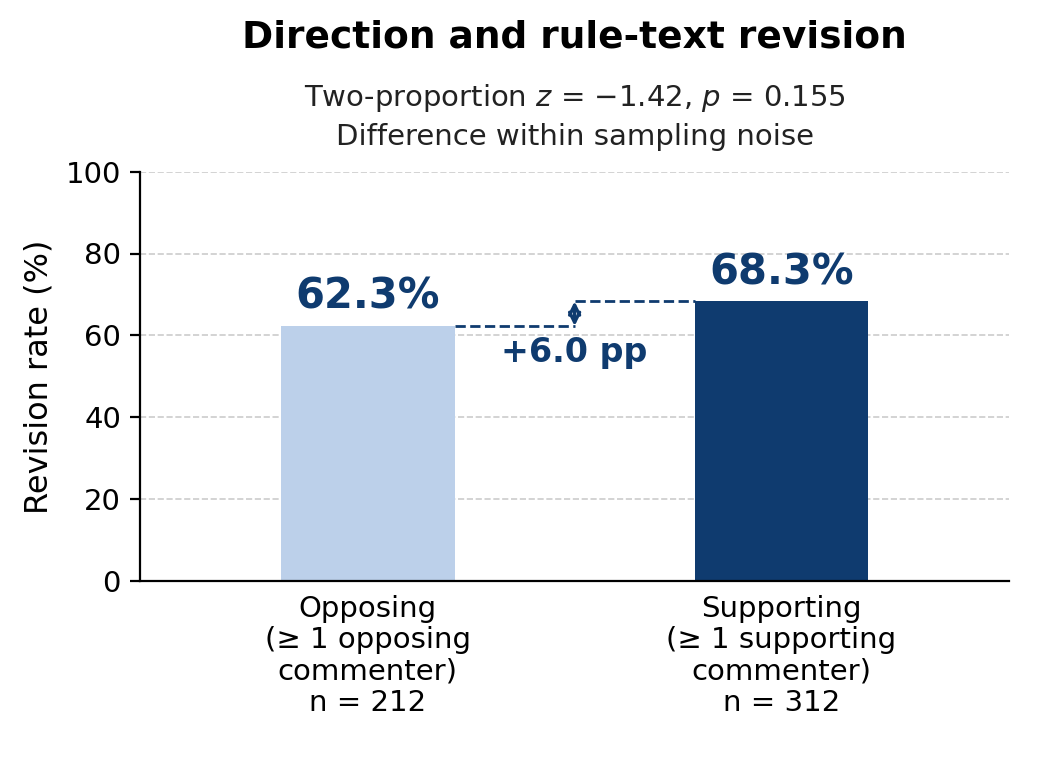
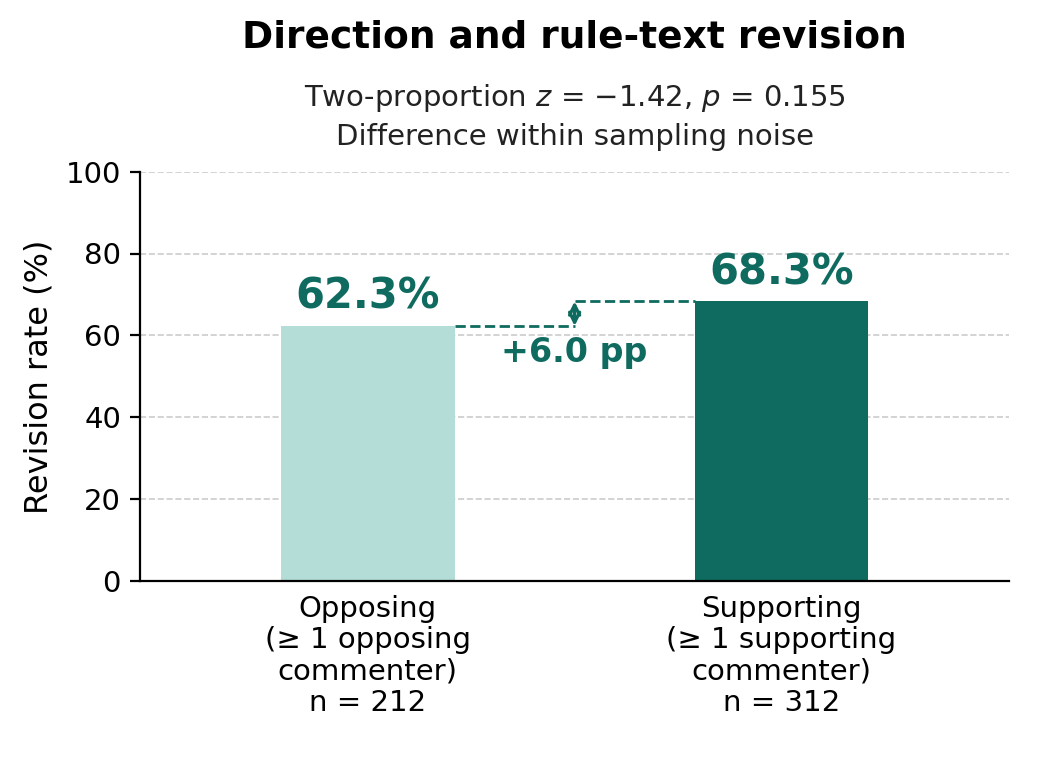
Final camera-ready figures and the scripts that make them

Changed region(s): [[0.4923, 0.3077, 0.8615, 0.7692], [0.2769, 0.3385, 0.4308, 0.4], [0.5538, 0.3692, 0.5846, 0.4]]

diff --git a/code/38_unified_figures.py b/code/38_unified_figures.py
@@ -1,0 +1,336 @@
+"""
+38_unified_figures.py - Figures 1, 3, 4, and 5 of the camera-ready paper in the
+same visual theme as Figures 2 and 6 (code/36, code/35).
+
+Theme: DejaVu Sans; navy #0f3b6f for the emphasized group, light blue #bcd0ea
+for the comparison group; bold navy value labels; dashed light-gray grid;
+bold chart titles with a one- or two-line statistical subtitle.
+
+  fig1_pipeline.png                 Figure 1: the auditing framework, showing
+                                    each measurement component's audit status
+                                    and which findings it feeds
+  fig2_f3_org_majority.png          Figure 3: audit-corrected Finding 3 composition
+  fig3_classifier_per_class.png     Figure 4: classifier vs. the human audit
+  figure_5_f3_audit_comparison.png  Figure 5: Finding 3 before and after the audit
+
+Numbers are the paper's. Figure 4 is computed from
+data/processed/outcome_audit_reconciled.csv and checked against the paper.
+
+Usage (repo root):
+    python3 code/38_unified_figures.py [output_dir]
+"""
+from __future__ import annotations
+
+import os
+import sys
+
+import matplotlib
+matplotlib.use("Agg")
+import matplotlib.pyplot as plt
+from matplotlib.colors import LinearSegmentedColormap
+from matplotlib.patches import FancyArrowPatch, FancyBboxPatch, Patch
+from matplotlib.lines import Line2D
+
+OUT = sys.argv[1] if len(sys.argv) > 1 else "paper/camera_ready_figures"
+DPI = 200
+LIGHT, DARK = "#bcd0ea", "#0f3b6f"
+# One muted colour family per finding, plus one for the human audits. The light/dark
+# pair inside each family keeps every chart readable in greyscale and for colour-blind readers.
+F1_DARK, F1_LIGHT = DARK, LIGHT                 # Finding 1: engagement (blue)
+F2_DARK, F2_LIGHT = "#0f6b5f", "#b3ddd6"        # Finding 2: direction (teal)
+F3_DARK, F3_LIGHT = "#b5541c", "#f2c9a5"        # Finding 3: commenter type (amber)
+AU_DARK, AU_LIGHT = "#4a3a8c", "#cdc6e8"        # blind human audits (purple)
+TEXT, MUTED, ARROW = "#222222", "#6b7686", "#7a8594"
+PANEL, GRID = "#f4f6f9", "#cccccc"
+SE, MO = "SURVIVED-edited", "MODIFIED"
+
+plt.rcParams.update({"font.family": "DejaVu Sans"})
+
+
+def style_axes(ax) -> None:
+    ax.yaxis.grid(True, ls="--", lw=0.6, color=GRID, zorder=0)
+    ax.set_axisbelow(True)
+    for side in ("top", "right"):
+        ax.spines[side].set_visible(False)
+
+
+# ---------------------------------------------------------------- Figure 1
+W1, H1 = 11.0, 5.3          # inches; printed at full text width
+EDGE = "#8a94a6"
+
+
+def figure_1(path: str) -> None:
+    fig = plt.figure(figsize=(W1, H1), dpi=DPI)
+    ax = fig.add_axes([0, 0, 1, 1])
+    ax.set_xlim(0, 1)
+    ax.set_ylim(0, 1)
+    ax.axis("off")
+    fy = lambda inches: inches / H1          # noqa: E731  vertical inches -> fraction
+    dash = {"proxy": (0, (5, 3)), "descriptive": (0, (1.2, 2.2))}
+
+    def pill(cx, cy, label, kind):
+        w = (len(label) * 0.068 + 0.26) / W1
+        ax.add_patch(FancyBboxPatch((cx - w / 2, cy - fy(0.1)), w, fy(0.2),
+                                    boxstyle="round,pad=0,rounding_size=0.015",
+                                    fc=AU_DARK if kind == "audited" else "white",
+                                    ec=AU_DARK if kind == "audited" else EDGE,
+                                    lw=1.0, ls=dash.get(kind, "solid"), zorder=3))
+        ax.text(cx, cy, label, ha="center", va="center", fontsize=8.4, fontweight="bold",
+                color="white" if kind == "audited" else "#4b5563", zorder=4)
+
+    def box(x0, y0, x1, y1, title, lines, kind, badge=None, fill=DARK):
+        face = {"input": PANEL, "audited": "#f3f1fa", "proxy": "white",
+                "descriptive": "white", "finding": fill}[kind]
+        edge = {"input": "#d5dbe3", "audited": AU_DARK, "finding": fill}.get(kind, EDGE)
+        ax.add_patch(FancyBboxPatch((x0, y0), x1 - x0, y1 - y0,
+                                    boxstyle="round,pad=0,rounding_size=0.012", fc=face, ec=edge,
+                                    lw=1.6 if kind in ("audited", "finding") else 1.2,
+                                    ls=dash.get(kind, "solid"), zorder=2))
+        cx = (x0 + x1) / 2
+        y = y1 - fy(0.15)
+        if not badge:   # centre the text block vertically when there is no badge
+            block = fy(0.19) + fy(0.27) - fy(0.19) + fy(0.18) * len(lines)
+            y = (y0 + y1) / 2 + block / 2
+        ax.text(cx, y, title, ha="center", va="top", fontsize=11, fontweight="bold",
+                color="white" if kind == "finding" else "#1f2a37", zorder=3)
+        y -= fy(0.27)
+        for ln in lines:
+            ax.text(cx, y, ln, ha="center", va="top", fontsize=9.3,
+                    color="white" if kind == "finding" else TEXT, zorder=3)
+            y -= fy(0.18)
+        if badge:
+            pill(cx, y0 + fy(0.2), badge, kind)
+
+    def arrow(points):
+        if len(points) > 2:
+            xs, ys = zip(*points[:-1])
+            ax.plot(xs, ys, color=ARROW, lw=1.3, zorder=1, solid_capstyle="butt")
+        ax.add_patch(FancyArrowPatch(points[-2], points[-1], arrowstyle="-|>",
+                                     mutation_scale=11, color=ARROW, lw=1.3, zorder=1,
+                                     shrinkA=0, shrinkB=0))
+
+    S0, S1 = 0.012, 0.150          # sample
+    I0, I1 = 0.182, 0.345          # inputs
+    M0, M1 = 0.378, 0.735          # measurement
+    Ma1, Mb0 = 0.551, 0.562        # measurement sub-columns
+    F0, F1 = 0.782, 0.988          # findings
+    BUS = 0.759
+    R1 = (0.675, 0.910)
+    R2 = (0.385, 0.620)
+    R3 = (0.095, 0.330)
+
+    for x, label in (((S0 + S1) / 2, "SAMPLE"), ((I0 + I1) / 2, "DATA"),
+                     ((M0 + M1) / 2, "MEASUREMENT"), ((F0 + F1) / 2, "FINDINGS")):
+        ax.text(x, 0.958, label, ha="center", va="center", fontsize=9,
+                fontweight="bold", color=MUTED)
+
+    box(S0, *R1[:1], S1, R1[1], "EPA dockets", ["2010–2022", "6,145 dockets", "786,197 comments"], "input")
+    box(S0, R2[0], S1, R2[1], "36 anchors", ["stratified random", "+ extreme-case"], "input")
+    box(I0, R1[0], I1, R1[1], "Federal Register", ["proposed + final rules", "72 documents"], "input")
+    box(I0, R2[0], I1, R2[1], "Public comments", ["70,075 analyzable", "incl. 1,634 attachments"], "input")
+    box(I0, R3[0], I1, R3[1], "Rhetoric schema", ["23 indicators, GPT-5", "not used for findings"], "descriptive", "Descriptive only")
+
+    box(M0, R1[0], M1, R1[1], "Obligation extraction",
+        ["deontic parser + GPT-5 verifier", "12,730 obligations · precision 0.95"],
+        "audited", "Audited · n = 66")
+    box(M0, R2[0], Ma1, R2[1], "Comment matching",
+        ["GPT-5 judge", "matcher–human κ = 0.82"], "audited", "Audited · n = 100")
+    box(Mb0, R2[0], M1, R2[1], "Outcome states",
+        ["proposed → final", "F3 uses corrected labels"], "audited", "Audited · n = 150")
+    box(M0, R3[0], Ma1, R3[1], "Commenter type",
+        ["Title-field patterns", "org. vs individual"], "proxy", "Proxy · not audited")
+
+    box(F0, R1[0], F1, R1[1], "Finding 1", ["Engagement tracks revision", "across rulemakings"], "finding", fill=F1_DARK)
+    box(F0, R2[0], F1, R2[1], "Finding 2", ["Direction does not", "differentiate outcomes"], "finding", fill=F2_DARK)
+    box(F0, R3[0], F1, R3[1], "Finding 3", ["Org-majority engagement", "→ editorial refinements"], "finding", fill=F3_DARK)
+
+    mid = lambda r: (r[0] + r[1]) / 2   # noqa: E731
+    arrow([((S0 + S1) / 2, R1[0]), ((S0 + S1) / 2, R2[1])])                  # dockets -> anchors
+    arrow([(S1, mid(R2) - 0.03), (I0, mid(R2) - 0.03)])                      # anchors -> comments
+    arrow([(S1, mid(R2) + 0.05), (0.166, mid(R2) + 0.05), (0.166, mid(R1)), (I0, mid(R1))])  # -> FR
+    arrow([(I1, mid(R1)), (M0, mid(R1))])                                     # FR -> extraction
+    arrow([(I1, mid(R2)), (M0, mid(R2))])                                     # comments -> matching
+    arrow([((I0 + I1) / 2, R2[0]), ((I0 + I1) / 2, R3[1])])                  # comments -> rhetoric
+    arrow([(I1, R2[0] + 0.035), (0.362, R2[0] + 0.035), (0.362, mid(R3)), (M0, mid(R3))])  # -> type
+    arrow([((M0 + Ma1) / 2, R1[0]), ((M0 + Ma1) / 2, R2[1])])                # extraction -> matching
+    arrow([((Mb0 + M1) / 2, R1[0]), ((Mb0 + M1) / 2, R2[1])])                # extraction -> outcomes
+    # matching and outcome states feed all three findings through one bus
+    ax.plot([(M0 + Ma1) / 2, (M0 + Ma1) / 2, BUS], [R2[0], R2[0] - 0.03, R2[0] - 0.03],
+            color=ARROW, lw=1.3, zorder=1)
+    ax.plot([M1, BUS], [mid(R2), mid(R2)], color=ARROW, lw=1.3, zorder=1)
+    ax.plot([BUS, BUS], [mid(R3) + 0.04, mid(R1)], color=ARROW, lw=1.3, zorder=1)
+    for y in (mid(R1), mid(R2), mid(R3) + 0.04):
+        arrow([(BUS, y), (F0, y)])
+    arrow([(Ma1, mid(R3) - 0.05), (F0, mid(R3) - 0.05)])                     # type -> Finding 3
+
+    # legend
+    items = [("Audited by blind dual-annotator coding", "audited"),
+             ("Proxy, not yet audited", "proxy"), ("Descriptive only", "descriptive")]
+    widths = [(len(t) * 0.066 + 0.55) / W1 for t, _ in items]
+    x = 0.5 - (sum(widths) + 0.03 * (len(items) - 1)) / 2
+    for (label, kind), w in zip(items, widths):
+        ax.add_patch(FancyBboxPatch((x, 0.030), 0.024, fy(0.16),
+                                    boxstyle="round,pad=0,rounding_size=0.008",
+                                    fc=AU_DARK if kind == "audited" else "white",
+                                    ec=AU_DARK if kind == "audited" else EDGE, lw=1.0,
+                                    ls=dash.get(kind, "solid")))
+        ax.text(x + 0.031, 0.030 + fy(0.08), label, va="center", fontsize=9, color=TEXT)
+        x += w + 0.03
+    fig.savefig(path, dpi=DPI)
+    plt.close(fig)
+    print(f"wrote {path}")
+
+
+# ------------------------------------------------------ Figures 3 and 5
+def stacked_panel(ax, cells: dict, title: str, subtitle: str, title_size=12.0) -> None:
+    """cells: {'SE': (org, not), 'MO': (org, not)}."""
+    xs = [0, 1]
+    names = [SE, MO]
+    orgs = [100 * cells[k][0] / sum(cells[k]) for k in ("SE", "MO")]
+    rest = [100 - o for o in orgs]
+    ns = [sum(cells[k]) for k in ("SE", "MO")]
+    ax.bar(xs, orgs, width=0.5, color=F3_DARK, zorder=2)
+    ax.bar(xs, rest, width=0.5, bottom=orgs, color=F3_LIGHT, zorder=2)
+    for x, o, r in zip(xs, orgs, rest):
+        ax.text(x, o / 2, f"{o:.0f}%", ha="center", va="center", fontsize=13,
+                fontweight="bold", color="white", zorder=3)
+        ax.text(x, o + r / 2, f"{r:.0f}%", ha="center", va="center", fontsize=13,
+                fontweight="bold", color=F3_DARK, zorder=3)
+    ax.set_xticks(xs)
+    ax.set_xticklabels([f"{n}\nn = {k}" for n, k in zip(names, ns)], fontsize=10.5)
+    ax.tick_params(axis="x", length=0, pad=5)
+    ax.set_xlim(-0.6, 1.6)
+    ax.set_ylim(0, 100)
+    ax.set_yticks(range(0, 101, 25))
+    ax.tick_params(axis="y", labelsize=10.5)
+    ax.set_ylabel("Obligations (%)", fontsize=11.5)
+    style_axes(ax)
+    ax.set_title(f"{title}\n", fontsize=title_size, pad=6)
+    ax.text(0.5, 1.035, subtitle, transform=ax.transAxes, ha="center", va="bottom",
+            fontsize=10.5, color=TEXT)
+
+
+def legend_org(fig, y) -> None:
+    fig.legend(handles=[Patch(color=F3_DARK, label="Organizational-majority"),
+                        Patch(color=F3_LIGHT, label="Not organizational-majority")],
+               loc="center", bbox_to_anchor=(0.5, y), ncol=2, frameon=False, fontsize=10.5)
+
+
+PRE = {"SE": (43, 15), "MO": (28, 30)}
+POST = {"SE": (13, 2), "MO": (57, 43)}
+
+
+def figure_3(path: str) -> None:
+    fig = plt.figure(figsize=(5.2, 3.9), dpi=DPI)
+    ax = fig.add_axes([0.135, 0.19, 0.835, 0.50])
+    stacked_panel(ax, POST, "", "")
+    ax.set_title("")
+    ax.texts[-1].remove()
+    cx = 0.135 + 0.835 / 2
+    fig.text(cx, 0.975, "Commenter composition by outcome", ha="center", va="top",
+             fontsize=13.5, fontweight="bold")
+    fig.text(cx, 0.895, "Audit-corrected: Fisher OR = 4.90, p = 0.044, n = 115",
+             ha="center", va="top", fontsize=10.5, color=TEXT)
+    legend_org(fig, 0.775)
+    fig.savefig(path, dpi=DPI)
+    plt.close(fig)
+    print(f"wrote {path}")
+
+
+def figure_5(path: str) -> None:
+    fig = plt.figure(figsize=(10.8, 4.6), dpi=DPI)
+    a1 = fig.add_axes([0.075, 0.17, 0.40, 0.52])
+    a2 = fig.add_axes([0.575, 0.17, 0.40, 0.52])
+    stacked_panel(a1, PRE, "Pre-audit (classifier labels)",
+                  "Fisher OR = 3.07, p = 0.007, n = 116")
+    stacked_panel(a2, POST, "Audit-corrected (adjudicated labels)",
+                  "Fisher OR = 4.90, p = 0.044, n = 115")
+    fig.suptitle("Finding 3 before and after the blind audit", fontsize=15,
+                 fontweight="bold", y=0.985)
+    legend_org(fig, 0.885)
+    fig.savefig(path, dpi=DPI)
+    plt.close(fig)
+    print(f"wrote {path}")
+
+
+# ---------------------------------------------------------------- Figure 4
+CLASSES = ["SURVIVED-unchanged", SE, MO, "DROPPED", "NEW"]
+SHORT = ["SU", "SE", "MO", "DR", "NEW"]
+
+
+def figure_4(path: str) -> None:
+    import pandas as pd
+    r = pd.read_csv("data/processed/outcome_audit_reconciled.csv")
+    cm = [[int(((r.classifier_label == c) & (r.adjudicated_label == g)).sum())
+           for g in CLASSES] for c in CLASSES]
+    prec = [cm[k][k] / max(1, sum(cm[k])) for k in range(5)]
+    rec = [cm[k][k] / max(1, sum(row[k] for row in cm)) for k in range(5)]
+    assert round(prec[2], 2) == 0.94 and round(rec[2], 2) == 0.53, "MODIFIED metrics changed"
+    assert round(prec[1], 2) == 0.20 and round(rec[1], 2) == 0.65, "SURVIVED-edited metrics changed"
+
+    fig = plt.figure(figsize=(10.8, 4.6), dpi=DPI)
+    a1 = fig.add_axes([0.085, 0.13, 0.33, 0.62])
+    a2 = fig.add_axes([0.575, 0.13, 0.38, 0.62])
+
+    cmap = LinearSegmentedColormap.from_list("theme", ["#ffffff", AU_LIGHT, AU_DARK])
+    vmax = max(max(row) for row in cm) ** 0.5
+    a1.imshow([[v ** 0.5 for v in row] for row in cm], cmap=cmap, vmin=0, vmax=vmax,
+              aspect="equal")
+    for i in range(5):
+        a1.add_patch(plt.Rectangle((i - 0.5, i - 0.5), 1, 1, fill=False, ec=AU_DARK, lw=1.6))
+        for j in range(5):
+            v = cm[i][j]
+            a1.text(j, i, str(v), ha="center", va="center", fontsize=11, fontweight="bold",
+                    color="white" if v ** 0.5 > 0.55 * vmax else AU_DARK)
+    a1.set_xticks(range(5))
+    a1.set_yticks(range(5))
+    a1.set_xticklabels(SHORT, fontsize=10.5)
+    a1.set_yticklabels(SHORT, fontsize=10.5)
+    a1.set_xlabel("Adjudicated human label", fontsize=11)
+    a1.set_ylabel("Classifier label", fontsize=11)
+    a1.tick_params(length=0)
+    for s in a1.spines.values():
+        s.set_visible(False)
+    a1.set_title("Classifier vs. human labels (n = 150)", fontsize=12, pad=8)
+
+    ys = list(range(5))
+    h = 0.36
+    a2.barh([y - h / 2 for y in ys], prec, height=h, color=AU_DARK, zorder=2, label="Precision")
+    a2.barh([y + h / 2 for y in ys], rec, height=h, color=AU_LIGHT, zorder=2, label="Recall")
+    for y, p, q in zip(ys, prec, rec):
+        a2.text(p + 0.015, y - h / 2, f"{p:.2f}", va="center", fontsize=9.5,
+                fontweight="bold", color=AU_DARK)
+        a2.text(q + 0.015, y + h / 2, f"{q:.2f}", va="center", fontsize=9.5,
+                fontweight="bold", color=AU_DARK)
+    a2.axvline(0.70, color=ARROW, ls="--", lw=1.1, zorder=3)
+    a2.set_yticks(ys)
+    a2.set_yticklabels(SHORT, fontsize=10.5)
+    a2.invert_yaxis()
+    a2.set_xlim(0, 1.12)
+    a2.set_xticks([0, 0.2, 0.4, 0.6, 0.8, 1.0])
+    a2.tick_params(axis="x", labelsize=10.5)
+    a2.tick_params(axis="y", length=0)
+    a2.set_xlabel("Score", fontsize=11)
+    a2.xaxis.grid(True, ls="--", lw=0.6, color=GRID, zorder=0)
+    a2.set_axisbelow(True)
+    for side in ("top", "right"):
+        a2.spines[side].set_visible(False)
+    a2.set_title("Per-class precision and recall", fontsize=12, pad=8)
+
+    fig.suptitle("Outcome-state classifier against the human audit", fontsize=15,
+                 fontweight="bold", y=0.985)
+    fig.legend(handles=[Patch(fc="white", ec=AU_DARK, lw=1.6, label="Agreement (outlined)"),
+                        Patch(color=AU_DARK, label="Precision"), Patch(color=AU_LIGHT, label="Recall"),
+                        Line2D([0], [0], color=ARROW, ls="--", lw=1.1, label="κ ≥ 0.70 threshold")],
+               loc="center", bbox_to_anchor=(0.5, 0.885), ncol=4, frameon=False, fontsize=10.5)
+    fig.savefig(path, dpi=DPI)
+    plt.close(fig)
+    print(f"wrote {path}")
+
+
+if __name__ == "__main__":
+    os.makedirs(OUT, exist_ok=True)
+    figure_1(os.path.join(OUT, "fig1_pipeline.png"))
+    figure_3(os.path.join(OUT, "fig2_f3_org_majority.png"))
+    figure_4(os.path.join(OUT, "fig3_classifier_per_class.png"))
+    figure_5(os.path.join(OUT, "figure_5_f3_audit_comparison.png"))

diff --git a/code/36_fig2_uniform_panels.py b/code/36_fig2_uniform_panels.py
@@ -63,26 +63,28 @@ def verify() -> None:
     print(f"numbers verified against {CSV}")
 
 
-def panel(path: str, title: str, subtitle: str, vals, labels) -> None:
+def panel(path: str, title: str, subtitle: str, vals, labels,
+          colors=(LIGHT, DARK)) -> None:
+    light, dark = colors
     plt.rcParams.update({"font.family": "DejaVu Sans"})
     fig = plt.figure(figsize=FIGSIZE, dpi=DPI)
     ax = fig.add_axes([0.135, 0.255, 0.835, 0.525])
     x = [0, 1]
     lo, hi = vals
-    ax.bar(x, vals, width=0.42, color=[LIGHT, DARK], zorder=2)
+    ax.bar(x, vals, width=0.42, color=[light, dark], zorder=2)
     for xi, v in zip(x, vals):
         ax.text(xi, v + 2, f"{v:.1f}%", ha="center", va="bottom",
-                fontsize=15, fontweight="bold", color=DARK)
+                fontsize=15, fontweight="bold", color=dark)
 
     # Gap annotation: dashed guides from each bar top, double arrow, and the
     # label just below the arrow (clear of the bar-top value labels).
-    ax.plot([0.21, 0.5], [lo, lo], ls="--", lw=1, color=DARK, zorder=3)
-    ax.plot([0.5, 0.79], [hi, hi], ls="--", lw=1, color=DARK, zorder=3)
+    ax.plot([0.21, 0.5], [lo, lo], ls="--", lw=1, color=dark, zorder=3)
+    ax.plot([0.5, 0.79], [hi, hi], ls="--", lw=1, color=dark, zorder=3)
     ax.annotate("", xy=(0.5, hi), xytext=(0.5, lo),
-                arrowprops=dict(arrowstyle="<->", color=DARK, lw=1.2,
+                arrowprops=dict(arrowstyle="<->", color=dark, lw=1.2,
                                 shrinkA=0, shrinkB=0, mutation_scale=9))
     ax.text(0.5, lo - 2.5, f"+{hi - lo:.1f} pp", ha="center", va="top",
-            fontsize=12, fontweight="bold", color=DARK)
+            fontsize=12, fontweight="bold", color=dark)
 
     ax.set_xlim(-0.55, 1.55)
     ax.set_xticks(x)
@@ -123,7 +125,8 @@ def main() -> None:
           "Difference within sampling noise",
           (F2["opp"], F2["sup"]),
           [f"Opposing\n(≥ 1 opposing\ncommenter)\nn = {F2['n_opp']:,}",
-           f"Supporting\n(≥ 1 supporting\ncommenter)\nn = {F2['n_sup']:,}"])
+           f"Supporting\n(≥ 1 supporting\ncommenter)\nn = {F2['n_sup']:,}"],
+          colors=("#b3ddd6", "#0f6b5f"))
 
 
 if __name__ == "__main__":
